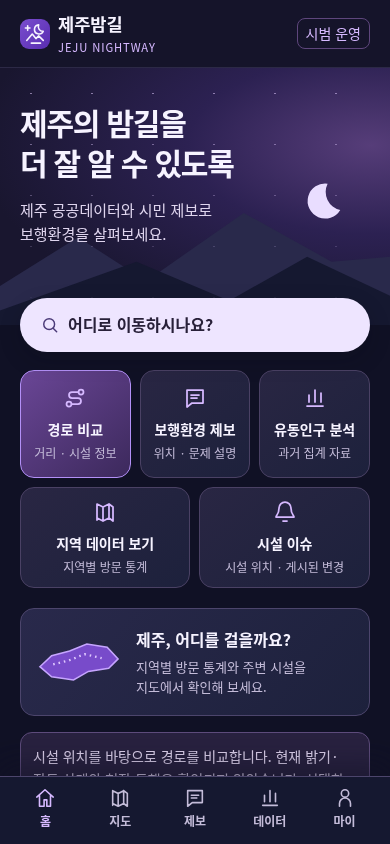
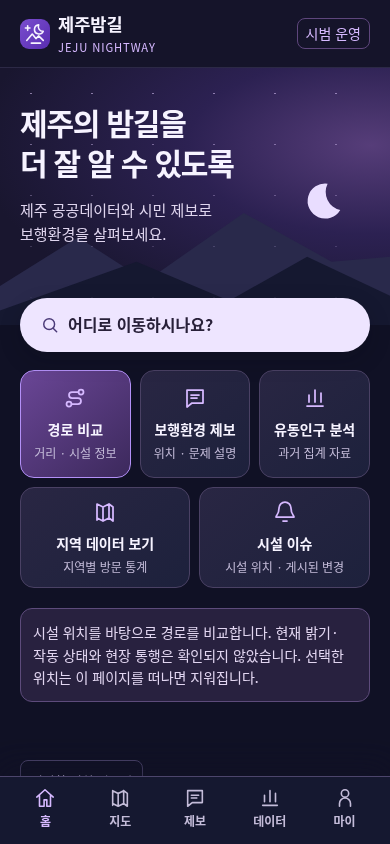
[화면] 홈의 중복 지역 안내 카드 제거

Changed region(s): [[0.0308, 0.7393, 0.9538, 0.9242]]

diff --git a/client/nightway/index.html b/client/nightway/index.html
@@ -61,16 +61,6 @@
             <button data-screen="region"><svg class="ico" width="24" height="24" aria-hidden="true"><use href="#i-map" /></svg>지역 데이터 보기<small>지역별 방문 통계</small></button>
             <button data-screen="facility"><svg class="ico" width="24" height="24" aria-hidden="true"><use href="#i-bell" /></svg>시설 이슈<small>시설 위치 · 게시된 변경</small></button>
           </div>
-          <button class="card region-card" data-screen="region">
-            <svg class="jeju-mark" viewBox="0 0 110 65" aria-hidden="true">
-              <path d="M5 38 20 24 43 18 65 9 91 13 105 28 93 40 67 44 48 55 20 51Z" fill="#784bca" stroke="#c6a5ff" stroke-width="2" />
-              <path d="m22 35 20-5 20-8 22 5" fill="none" stroke="#dfc8ff" stroke-dasharray="2 5" stroke-width="3" />
-            </svg>
-            <span>
-              <strong>제주, 어디를 걸을까요?</strong>
-              <span class="support">지역별 방문 통계와 주변 시설을<br />지도에서 확인해 보세요.</span>
-            </span>
-          </button>
           <p class="notice">
             시설 위치를 바탕으로 경로를 비교합니다. 현재 밝기·작동 상태와 현장
             통행은 확인되지 않았습니다. 선택한 위치는 이 페이지를 떠나면

diff --git a/docs/DEPLOYMENT_2026-11-20.md b/docs/DEPLOYMENT_2026-11-20.md
@@ -29,3 +29,9 @@
 - 실제 TMAP 공개 구간 요청: criteria=CCTV 단독, HTTP200, 서로 다른 후보1개, CCTV 인접30.21%, 미저장. 후보 한 개라는 추천 설명 확인. 실제 여러 후보 간 순위 검증은 아니며, 복수 후보 우선순위는 합성 검사로 별도 검증했습니다.
 - 두 시설 구역 실제 API: 연동 반환 CCTV5/조명103지점, 서귀포 반환 CCTV9/조명92지점. 구간 주변 반환 목록 수이며 해당 읍면동 전체 시설 수나 현재 고장 수가 아닙니다.
 - 추가 지출이 필요한 모델·호스팅 변경과 미확정 제보 점수 적용은 하지 않았습니다. 예비 submit-safe 태그를 유지했습니다. 사람의 실제 휴대폰·현장 통행·제출 확인은 완료로 처리하지 않았습니다.
+
+## 홈의 중복 진입 카드 정리 (08:30)
+
+사용자가 선택한 분리 방식에 따라 홈의 ‘제주, 어디를 걸을까요?’ 카드를 제거했습니다. 지역별 방문 통계로 연결되는 중복 진입이었으며 길찾기 화면은 아니었습니다. ‘지역 데이터 보기’와 ‘시설 이슈’는 각각 유지하고, 실제 ‘경로 비교’ 진입도 유지했습니다. 메뉴5개는 그대로이며 큰 중복 카드만 없어졌습니다.
+
+자동359개 통과(기존 경고1건), Chromium320/390/768px에서 카드 제거·지역 선택과 시설 구역 선택의 개별 진입·길찾기 유지·넘침0·자바스크립트 오류0·외부 요청0을 확인했습니다. 홈 화면 캡처도 갱신했습니다. 기존 배포 승인 흐름에 따라 배포 브랜치에 반영합니다.
